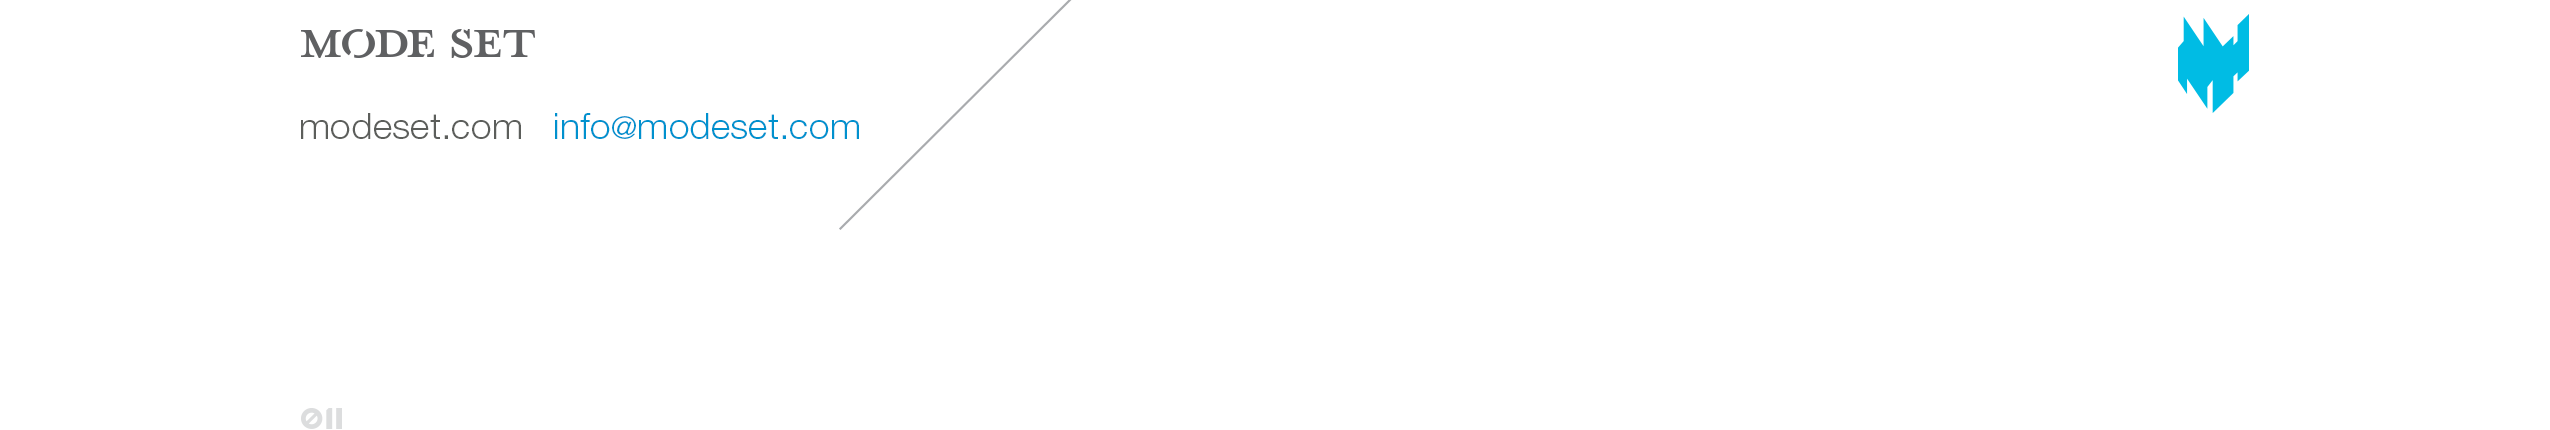
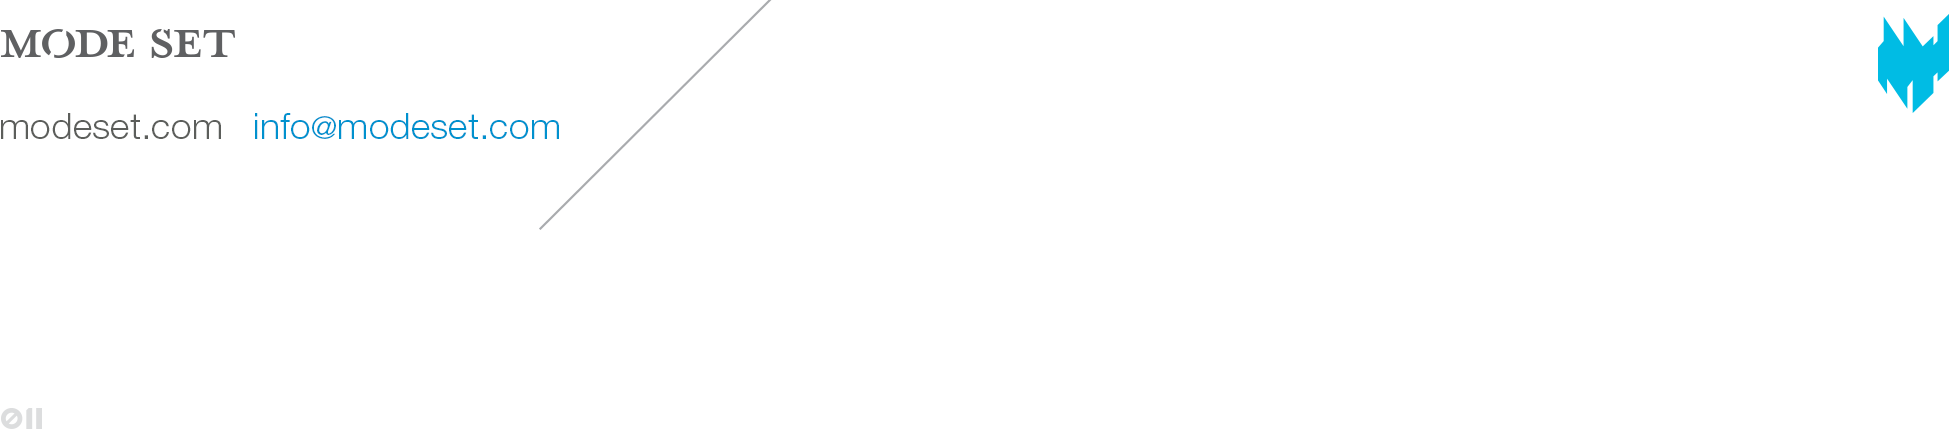
WIP on getting the masthead correct

diff --git a/README.md b/README.md
@@ -9,3 +9,9 @@
 
 All image assets and marks are Copyright (&copy;) Theory Four, LLC // dba Mode Set.
 
+<!--
+## TODO:
+
+Fix the masthead so it's as large as it needs to be and not scaling
+-->
+
